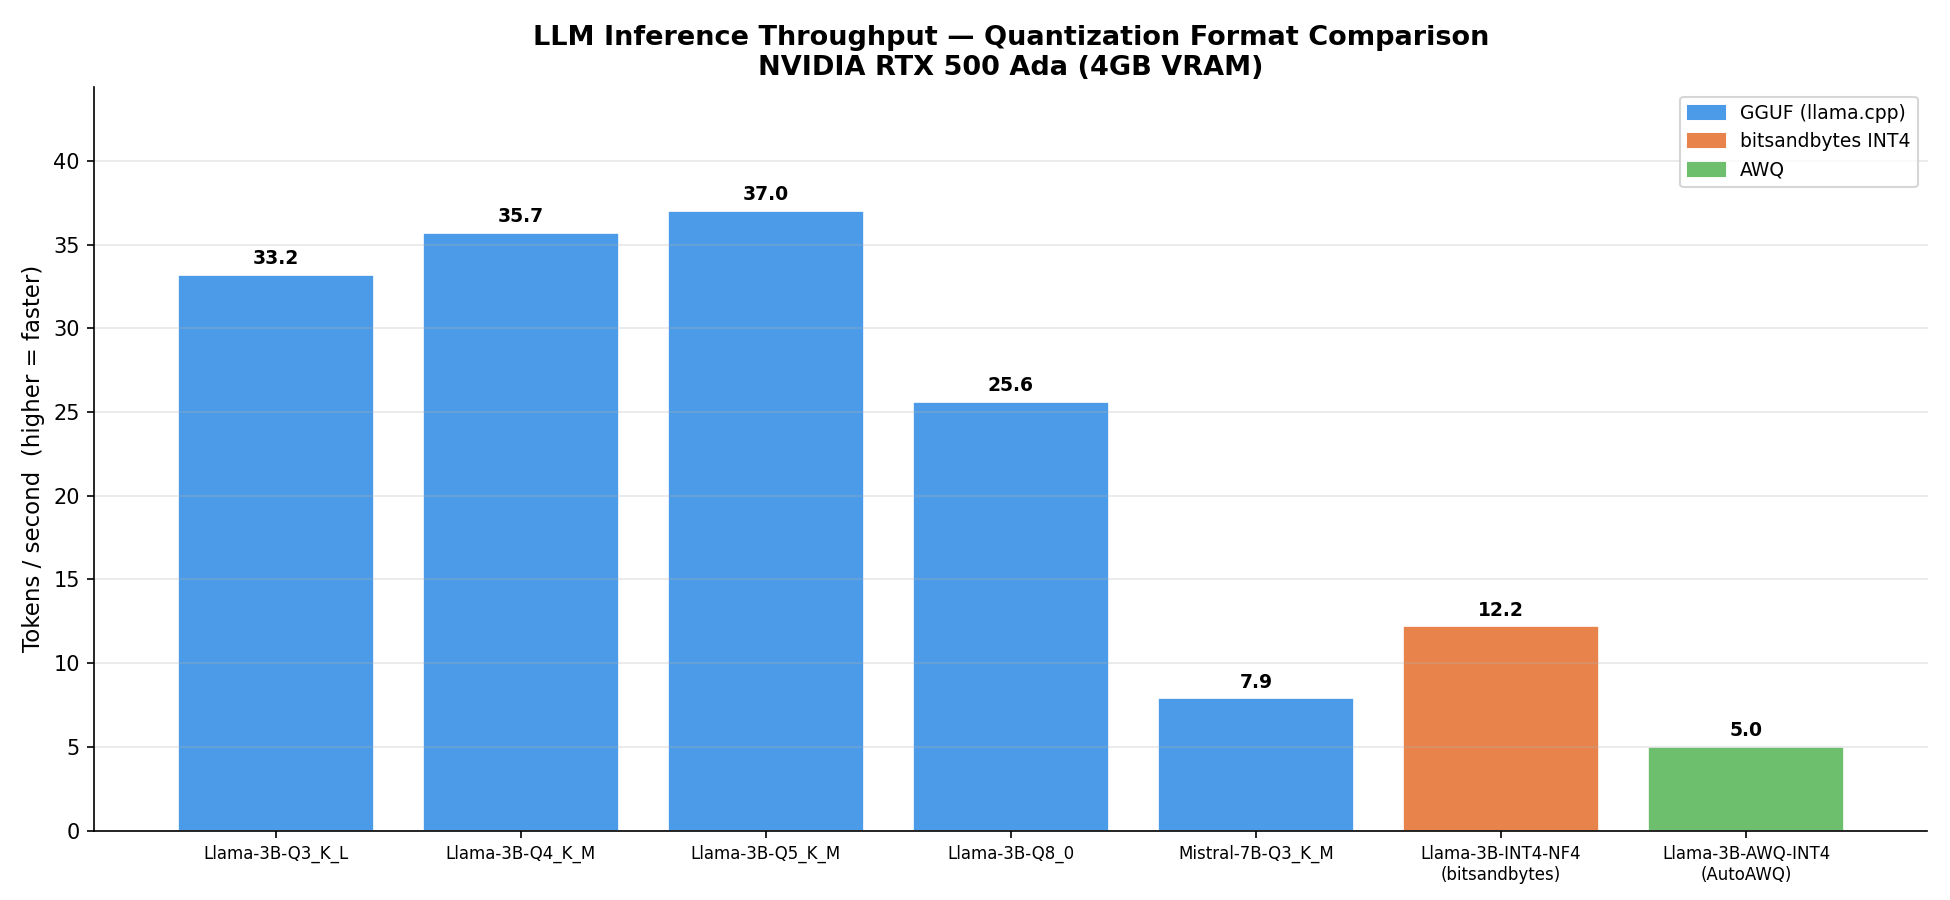
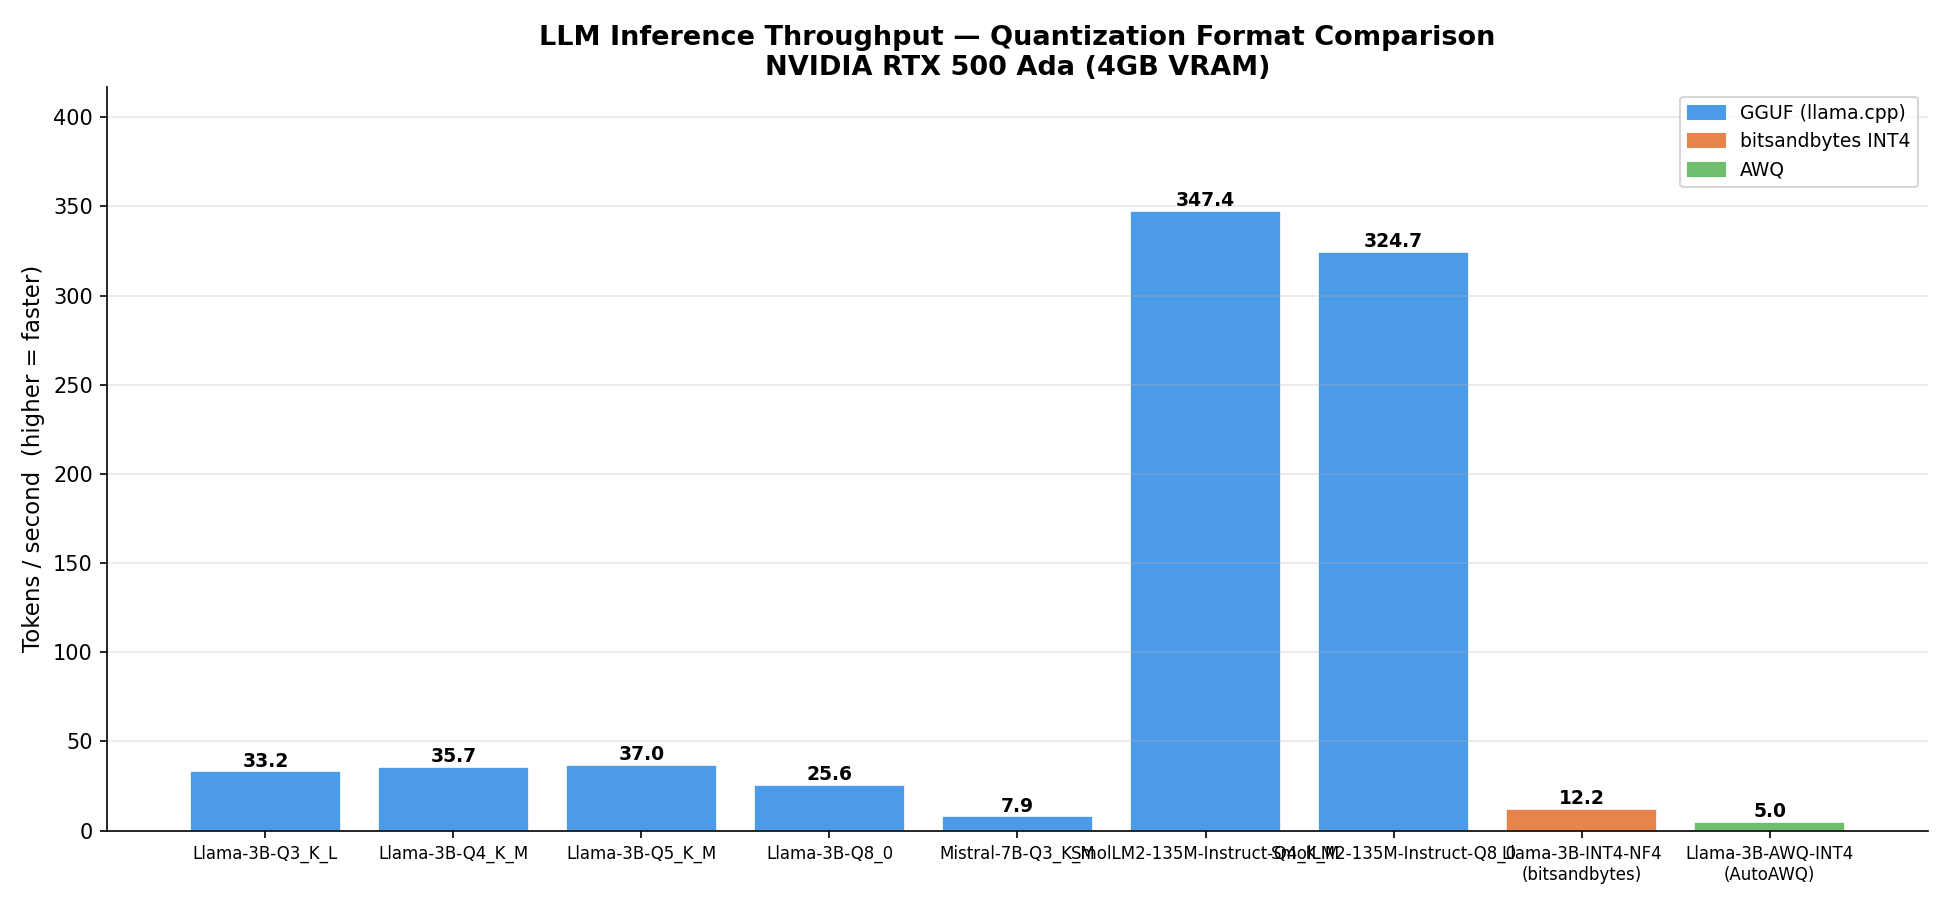
SmolLM2-135M is tested since it has good speed 347 tok/s

diff --git a/scripts/analyze_results.py b/scripts/analyze_results.py
@@ -33,16 +33,23 @@ def load_json(path):
     with open(path) as f:
         return json.load(f)
 
-# Pick the latest file for each backend
+# Merge all GGUF result files (runs may be split across multiple files)
+gguf_data = []
+seen = set()
+for f in sorted(RESULTS.glob("benchmark_2*.json")):
+    for r in load_json(f):
+        if r["model"] not in seen:
+            seen.add(r["model"])
+            gguf_data.append(r)
+
+# Pick the latest file for INT4 and AWQ
 def latest(pattern):
     files = sorted(RESULTS.glob(pattern))
     return files[-1] if files else None
 
-gguf_file  = latest("benchmark_2*.json")
 int4_file  = latest("benchmark_int4_*.json")
 awq_file   = latest("benchmark_awq_*.json")
 
-gguf_data  = load_json(gguf_file)  if gguf_file  else []
 int4_data  = load_json(int4_file)  if int4_file  else []
 awq_data   = load_json(awq_file)   if awq_file   else []
 

diff --git a/scripts/benchmark.py b/scripts/benchmark.py
@@ -55,6 +55,8 @@ DEFAULT_RUNS = 3          # runs per model — results are averaged
 
 # ── GGUF models — ordered from most to least compressed ──────────────────────
 GGUF_MODELS = [
+    "SmolLM2-135M-Instruct-Q4_K_M.gguf",
+    "SmolLM2-135M-Instruct-Q8_0.gguf",
     "Llama-3.2-3B-Instruct-Q3_K_L.gguf",
     "Llama-3.2-3B-Instruct-Q4_K_M.gguf",
     "Llama-3.2-3B-Instruct-Q5_K_M.gguf",

diff --git a/README.md b/README.md
@@ -8,13 +8,20 @@
 
 ## Benchmark Results
 
+### GGUF (llama.cpp) — SmolLM2-135M-Instruct
+
+| Format | Bits/weight | Tok/s | VRAM (MB) | Notes |
+|--------|-------------|-------|-----------|-------|
+| Q4_K_M | ~4.5 | **347.4** | 473 | Fastest model in benchmark |
+| Q8_0   | ~8.0 | 324.7 | 511 | Near-lossless, still extremely fast |
+
 ### GGUF (llama.cpp) — Llama-3.2-3B-Instruct
 
 | Format | Bits/weight | Tok/s | VRAM (MB) | Notes |
 |--------|-------------|-------|-----------|-------|
 | Q3_K_L | ~3.4 | 33.2 | 2515 | Most compressed |
 | Q4_K_M | ~4.5 | 35.7 | 2711 | Sweet spot — best speed/quality balance |
-| Q5_K_M | ~5.5 | **37.0** | 2999 | Fastest overall |
+| Q5_K_M | ~5.5 | **37.0** | 2999 | Fastest among 3B |
 | Q8_0   | ~8.0 | 25.6 | 3828 | Near-lossless quality |
 
 ### Cross-Backend Comparison — Llama-3.2-3B-Instruct @ INT4
@@ -126,23 +133,26 @@ analyze_results.py →  load all JSONs → matplotlib plots  →  results/plots/
 
 ## Key Findings
 
-### 1. llama.cpp GGUF dominates inference speed on constrained hardware
-GGUF Q4_K_M delivered **35.7 tok/s** — 3× faster than bitsandbytes, 7× faster than AWQ.
+### 1. Model size is the single biggest lever
+SmolLM2-135M Q4_K_M hit **347.4 tok/s** using only 473 MB VRAM — 10× faster than Llama-3B and using 6× less VRAM. For latency-critical applications where output quality requirements are modest, a 135M model is a fundamentally different class of deployment target than a 3B model.
+
+### 2. llama.cpp GGUF dominates inference speed within the same model size
+GGUF Q4_K_M delivered **35.7 tok/s** on Llama-3B — 3× faster than bitsandbytes, 7× faster than AWQ.
 llama.cpp has hand-written CUDA kernels that operate directly on quantized INT4 weights without dequantizing first.
 
-### 2. More bits ≠ more speed
+### 3. More bits ≠ more speed
 Q5_K_M (37.0 tok/s) was faster than Q4_K_M (35.7) despite using more bits.
 Q8_0 dropped to 25.6 tok/s — at 8 bits per weight the model no longer fits efficiently in GPU cache, causing memory bandwidth pressure. The sweet spot on this GPU is Q4–Q5.
 
-### 3. bitsandbytes uses the least VRAM
+### 4. bitsandbytes uses the least VRAM
 NF4 with double quantization used only 2361 MB — 350 MB less than GGUF Q4_K_M.
 Tradeoff: bitsandbytes dequantizes weights to float16 before matrix multiplication, adding overhead that hurts throughput. It is designed for QLoRA fine-tuning, not pure inference.
 
-### 4. 7B models barely fit on 4GB VRAM
+### 5. 7B models barely fit on 4GB VRAM
 Mistral-7B Q3_K_M ran at 7.9 tok/s using 3845 MB — close to the limit.
 Q4_K_M (4.1GB + KV cache overhead) exceeded VRAM entirely. 3B is the practical upper limit for comfortable inference on 4GB.
 
-### 5. AWQ needs its CUDA extension to be competitive
+### 6. AWQ needs its CUDA extension to be competitive
 AutoAWQ ran at 5.0 tok/s because `awq_ext` optimized CUDA kernels failed to install and layer fusion was skipped. In production (vLLM with llm-compressor), AWQ is competitive with GGUF. AutoAWQ itself is now deprecated — AWQ support has moved to vLLM's llm-compressor.
 
 ---
